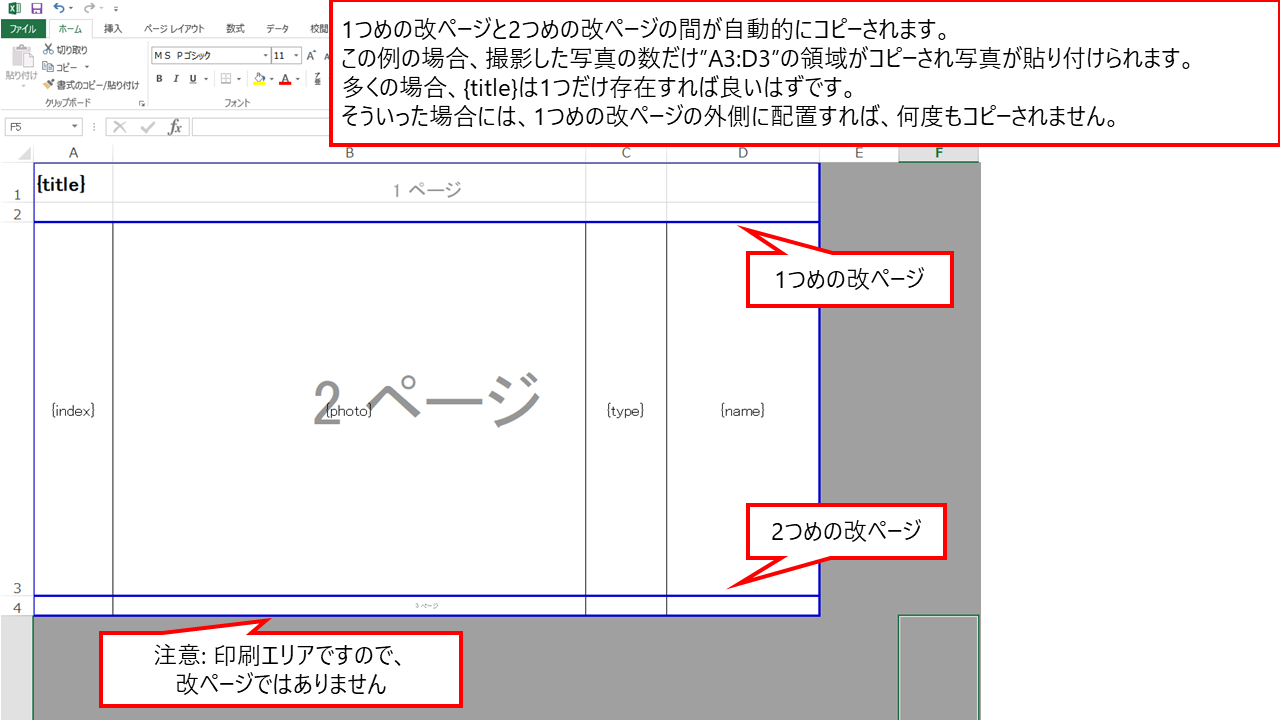
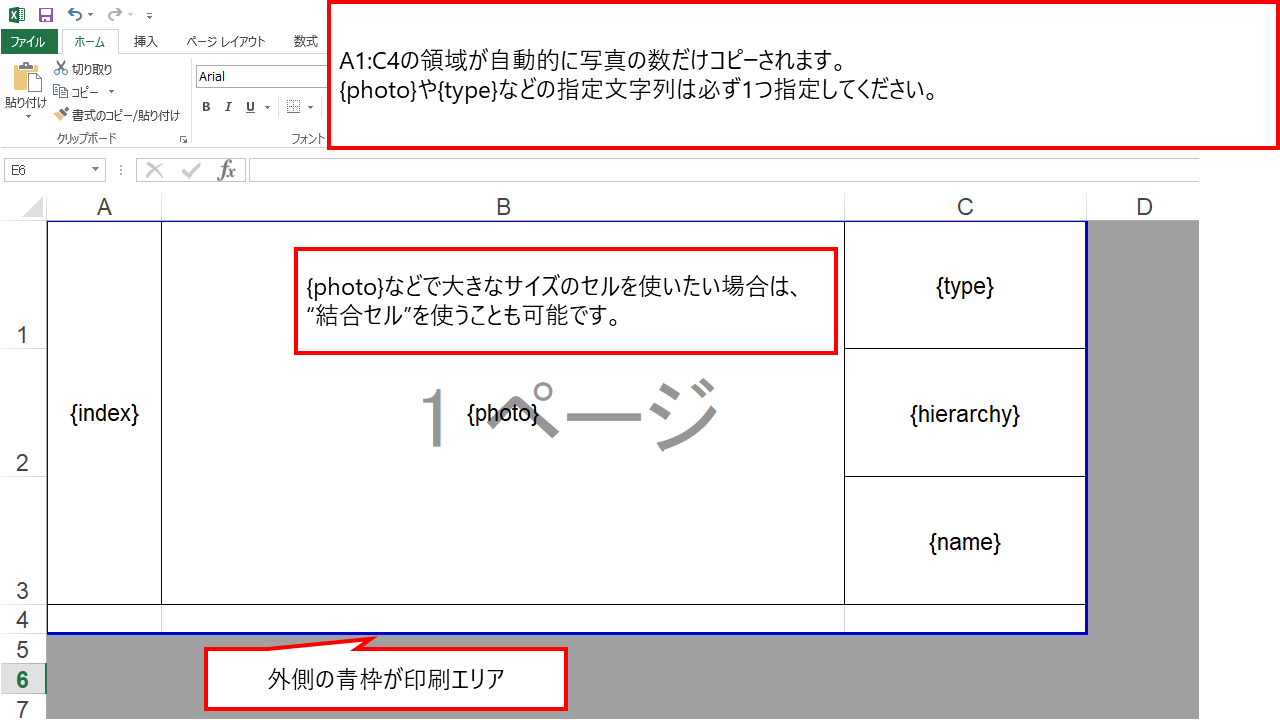
バックエンド側の新しいエクセル出力処理に合わせて説明を全部修正

diff --git a/src/app/shared/components/upload-template/upload-template.component.ts b/src/app/shared/components/upload-template/upload-template.component.ts
@@ -48,11 +48,6 @@ export class UploadTemplateComponent implements OnInit {
       src: "/assets/explanation-images/explanation-image-2.png",
       caption: "",
       thumb: ""
-    },
-    {
-      src: "/assets/explanation-images/explanation-image-3.png",
-      caption: "",
-      thumb: ""
     }
   ];
   public firstFormGroup: FormGroup;
@@ -116,19 +111,25 @@ export class UploadTemplateComponent implements OnInit {
               this.errMsg = "エラー: " + err.error.error.message;
               switch(err.error.error.code) {
                 case 804:
-                  this.errMsg = "同じ名前のテンプレートをアップロードすることはできません。";
+                  this.errMsg = `同じ名前のテンプレートをアップロードすることはできません。`;
                   break;
                 case 805:
                   const requiredStr: string = err.error.error.message.split(":")[1];
                   this.errMsg = `必要なプロパティ設定が足りません。エクセル内のどこかのセルに必ず"${requiredStr}"という文字列を入力しておく必要があります。`;
                   break;
                 case 806:
+                  this.errMsg = `設定されている改ページの数が多いです。改ページは"0"あるいは"1"つに設定してください。`;
+                  break;
+                case 807:
+                  this.errMsg = `印刷エリアが設定されていません。`;
+                  break;
+                case 808:
                   const property: string = err.error.error.message.match(/^.*:\s(.*),\s.*$/)[1];
                   const count: string = err.error.error.message.split(":")[2];
                   this.errMsg = `各プロパティは1つだけ入力してください。"${property}"というプロパティが${count}個存在しています。`;
                   break;
-                case 807:
-                  this.errMsg = "改ページが足りません。改ページは必ず1つか2つ設定してください。";
+                case 809:
+                  this.errMsg = `指定されたプロパティが印刷エリアまたは改ページ内に存在しません。`;
                   break;
               }
             } else {

diff --git a/src/app/shared/components/upload-template/upload-template.component.html b/src/app/shared/components/upload-template/upload-template.component.html
@@ -20,16 +20,19 @@
             	<li>テンプレートは".xlsx"形式のエクセルファイルのみをサポートします。
             		<ul>
             			<li>Office 2010以降のExcelのみサポートします。</li>
-            			<li>その他のOffice互換ソフトウェアで作成されたファイルについてはサポートしません</li>
+            			<li>その他のOffice互換ソフトウェアで作成されたファイルについてはサポートしていません。</li>
             		</ul>
             	</li>
-            	<li>下記の参考画像のように改ページに必ず1つあるいは2つの"改ページ"を設定してください
+            	<li>下記の参考画像のように必ず印刷エリアを設定してください。その印刷エリア内のセルが自動的にコピーされます。
             		<ul>
-            			<li>自動的にその改ページまでの行をコピーします</li>
             			<li>例えば撮影写真が10枚あれば、10行分コピーされます。</li>
             			<li class="display-explanation-image" (click)="openExplanationImages(0)">参考画像1</li>
+            		</ul>
+            	</li>
+            	<li>"タイトル"などシート内に1つだけ存在すれば良い箇所については、その行を除く位置に改ページを1つだけ設定してください。
+            		<ul>
+            			<li>その改ページから印刷エリアの終端までのセルをコピーします。</li>
             			<li class="display-explanation-image" (click)="openExplanationImages(1)">参考画像2</li>
-            			<li class="display-explanation-image" (click)="openExplanationImages(2)">参考画像3</li>
             		</ul>
             	</li>
             	<li>下記の文字列をセル内文字列として入力してください

diff --git a/src/app/private/dashboard/generate/generate.component.ts b/src/app/private/dashboard/generate/generate.component.ts
@@ -249,7 +249,8 @@ export class GenerateComponent implements OnInit, OnDestroy {
   public onListGeneratedFiles() {
     this.isLoading = true;
     let projectId = this.currentProject.project_id;
-    this.subscriptions.push(timer(3000, 60000)
+    //this.subscriptions.push(timer(3000, 60000)
+    this.subscriptions.push(timer(3000, 6000000)
       .subscribe(
           () => {
             this.generateService.list(projectId)
